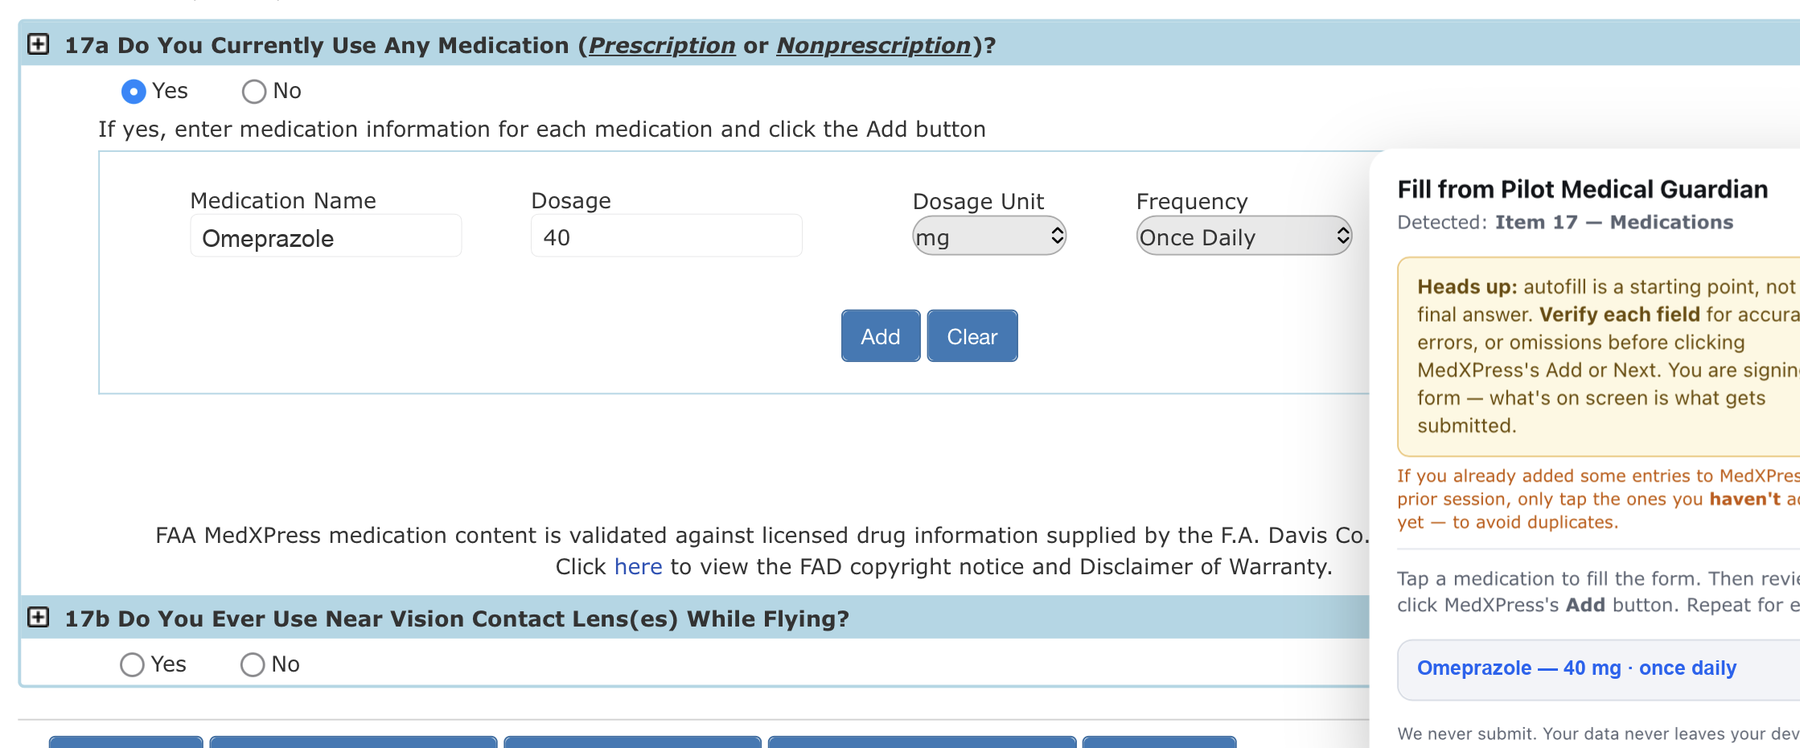
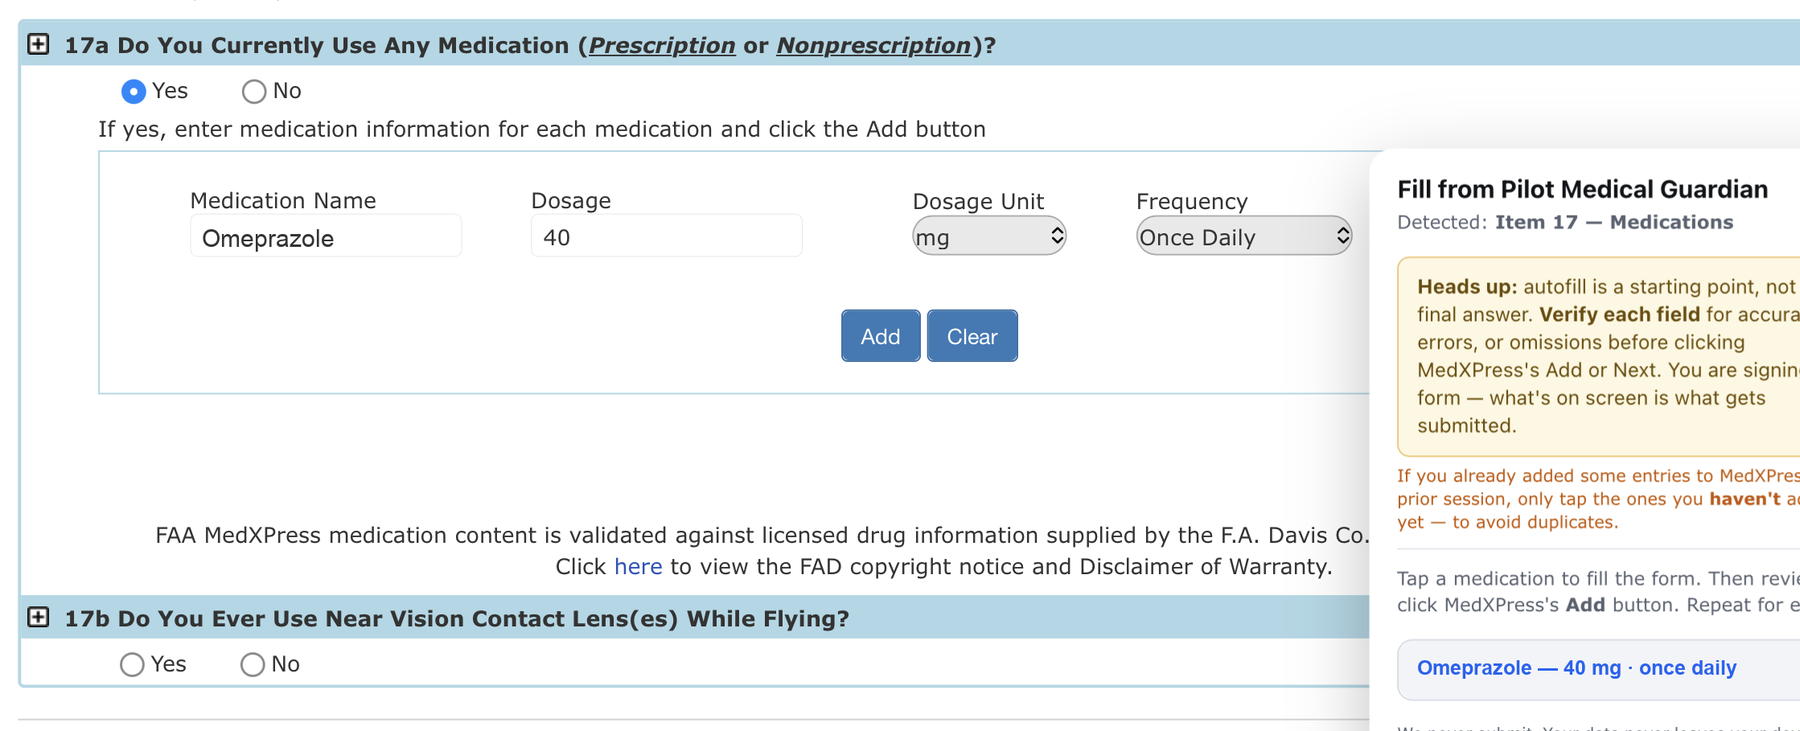
Crop autofill shots above the FAA toolbar (clean bottom edge)
Phone view showed the cut-off tops of the FAA bottom toolbar buttons
peeking into both demo images. Re-cropped just above the toolbar:
- meds ends on the "we never submit / data never leaves your device" line
- visits ends after the 4th visit chip (5th overlapped the toolbar band)
Added ?v=2 cache-buster so the new crops show without a hard refresh.

diff --git a/index.html b/index.html
@@ -199,14 +199,14 @@
       <p>The Safari extension fills the parts of FAA MedXPress you'd otherwise retype every renewal — your <b>medications (Item 17)</b> and <b>doctor visits (Item 19)</b>. You review every field and tap <b>Add</b> yourself; it never submits for you, and your data never leaves your device.</p>
       <div class="demo">
         <figure>
-          <a href="/screenshots/medxpress-autofill-after.png" target="_blank" rel="noopener">
-            <img src="/screenshots/medxpress-autofill-after.png" alt="MedXPress Item 17 with a medication filled in by Pilot Medical Guardian, next to the app's panel and a reminder to verify each field">
+          <a href="/screenshots/medxpress-autofill-after.png?v=2" target="_blank" rel="noopener">
+            <img src="/screenshots/medxpress-autofill-after.png?v=2" alt="MedXPress Item 17 with a medication filled in by Pilot Medical Guardian, next to the app's panel and a reminder to verify each field">
           </a>
           <figcaption><b>Medications (Item 17)</b> — one tap fills the blank form, with a reminder to verify each field before you add it. <span class="tap">Tap to enlarge.</span></figcaption>
         </figure>
         <figure>
-          <a href="/screenshots/medxpress-visit-after.png" target="_blank" rel="noopener">
-            <img src="/screenshots/medxpress-visit-after.png" alt="MedXPress Item 19 with a doctor visit filled in — provider, date, and full address — next to the app's panel listing visits to tap">
+          <a href="/screenshots/medxpress-visit-after.png?v=2" target="_blank" rel="noopener">
+            <img src="/screenshots/medxpress-visit-after.png?v=2" alt="MedXPress Item 19 with a doctor visit filled in — provider, date, and full address — next to the app's panel listing visits to tap">
           </a>
           <figcaption><b>Doctor visits (Item 19)</b> — provider, date, and full address, filled the same way. <span class="tap">Tap to enlarge.</span></figcaption>
         </figure>